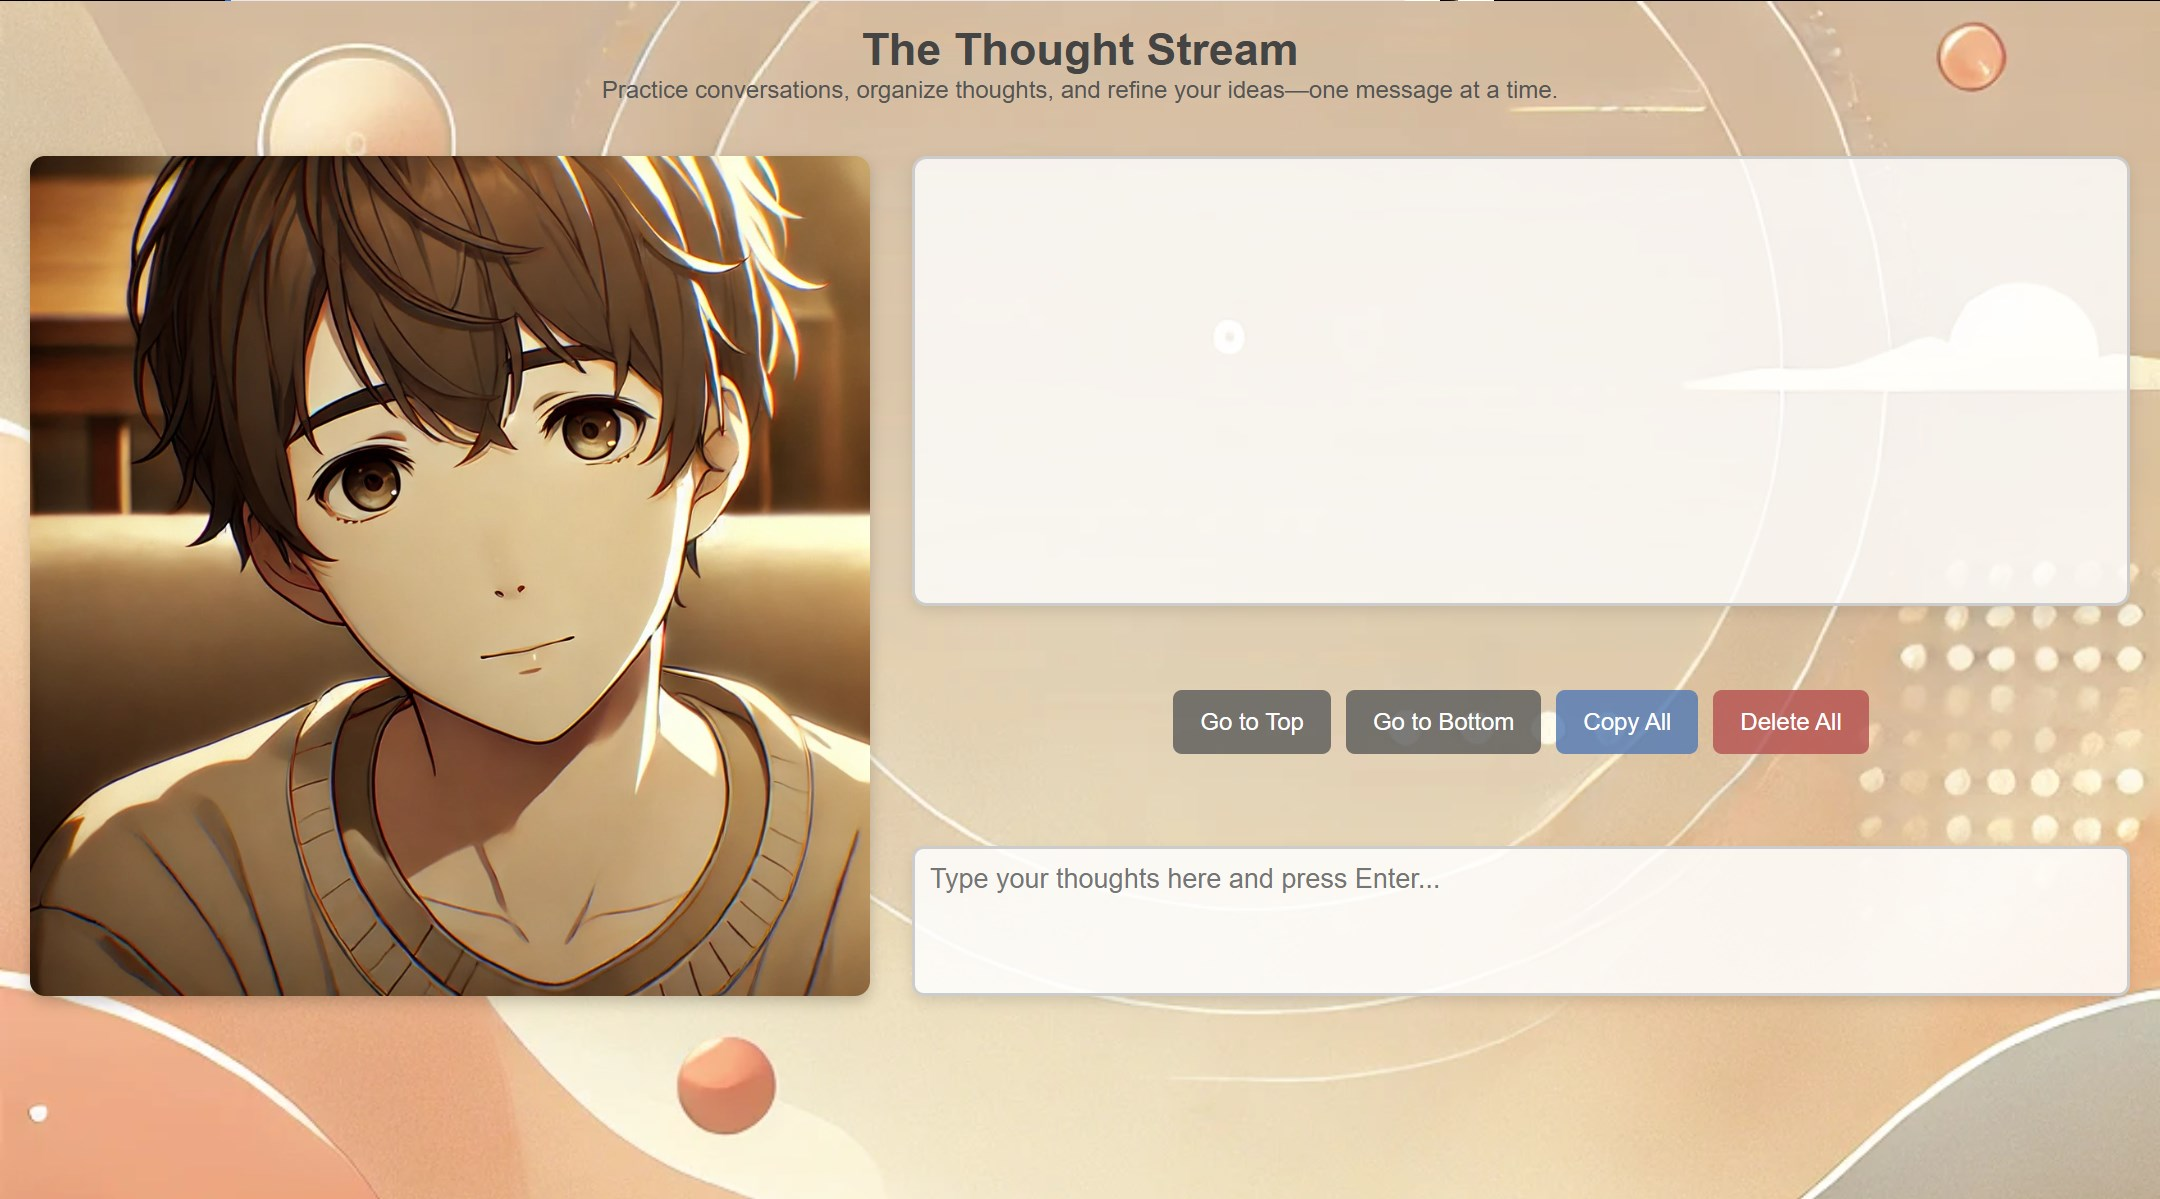
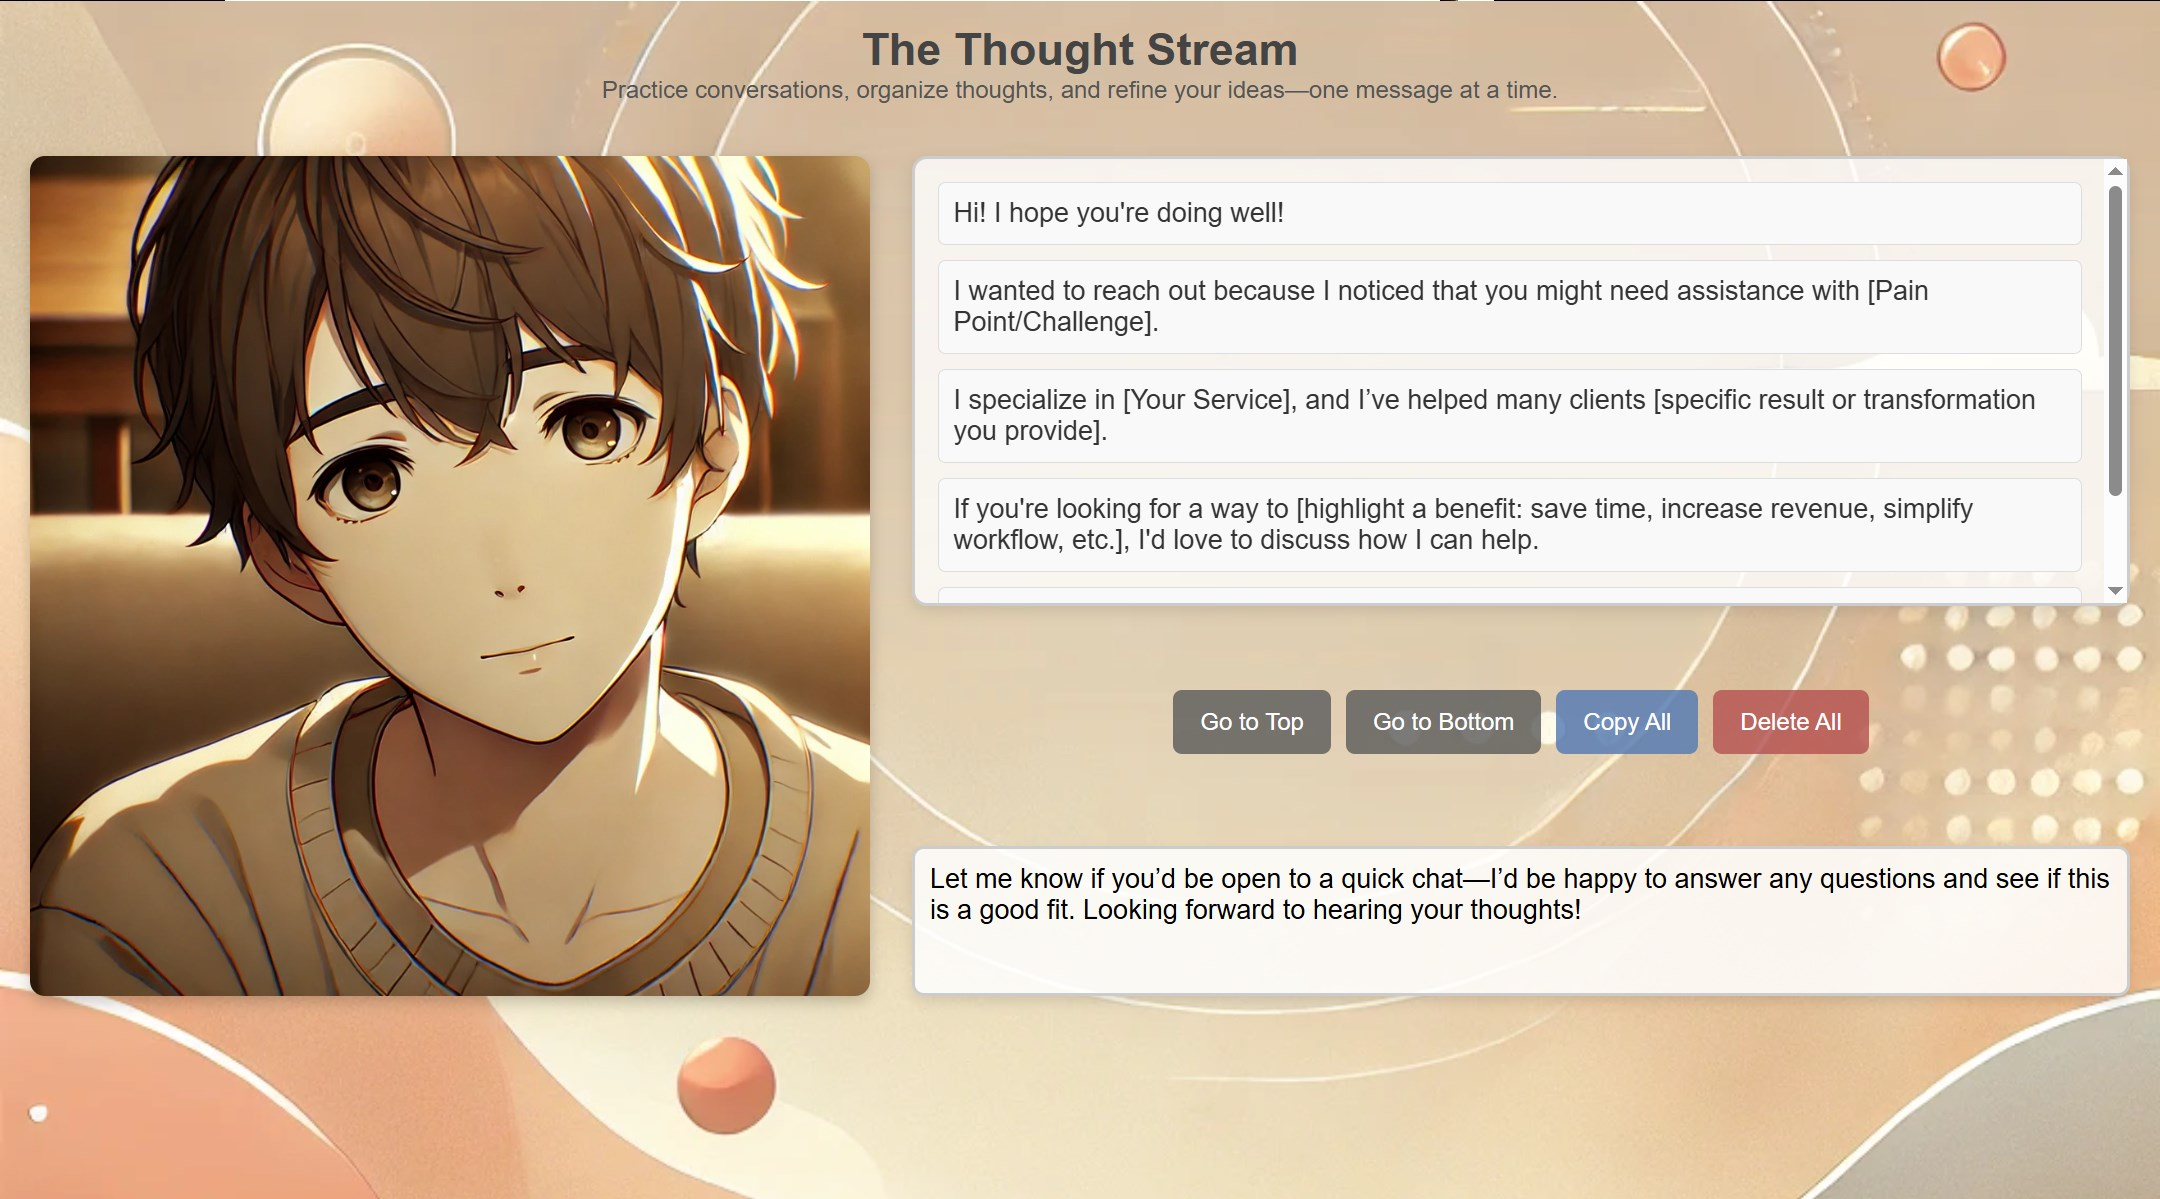
Updated demo screenshot and finalized content

diff --git a/index.html b/index.html
@@ -240,7 +240,7 @@
             newTextBlock.style.borderRadius = "5px";
             newTextBlock.style.backgroundColor = "#f9f9f9";
 
-            output.prepend(newTextBlock);
+            output.append(newTextBlock);
             localStorage.setItem("thoughtStream", output.innerHTML);
         }
 
